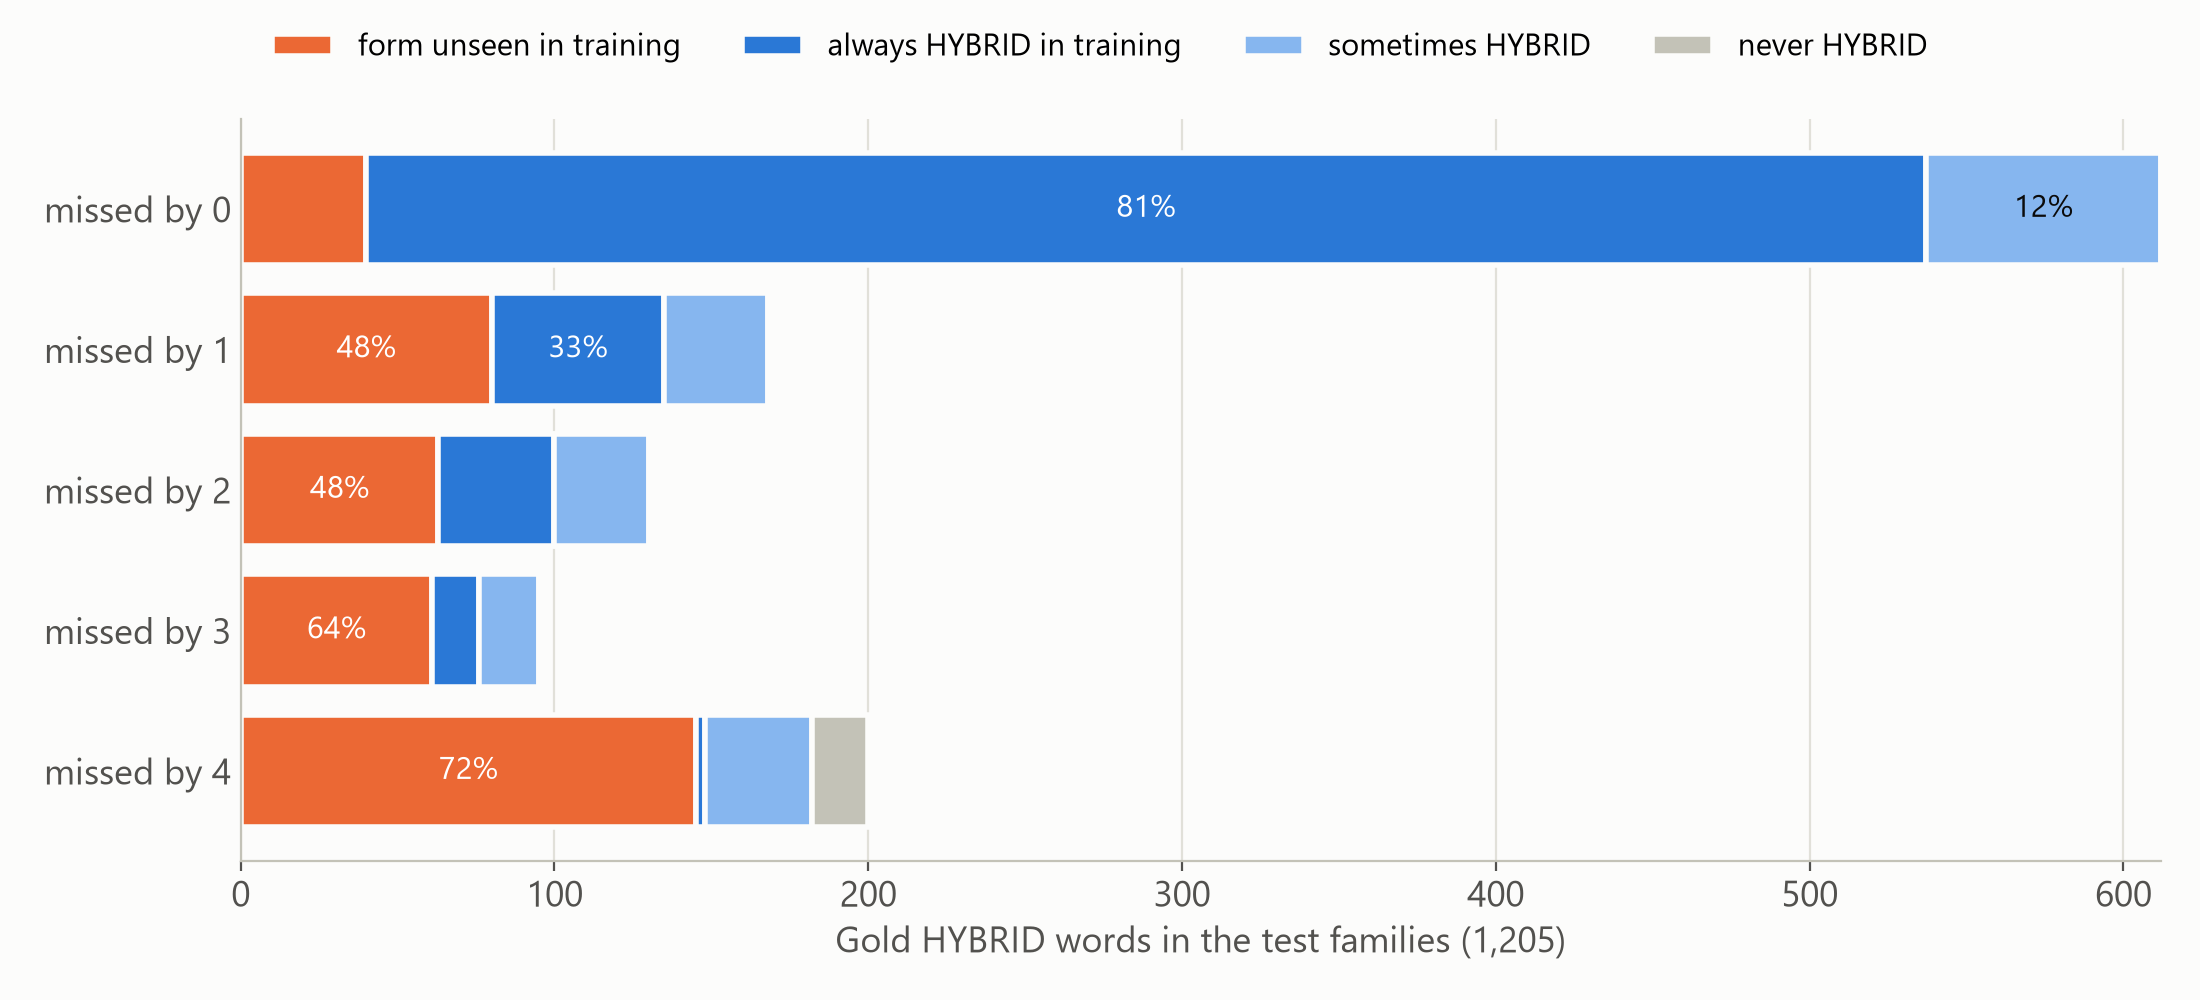
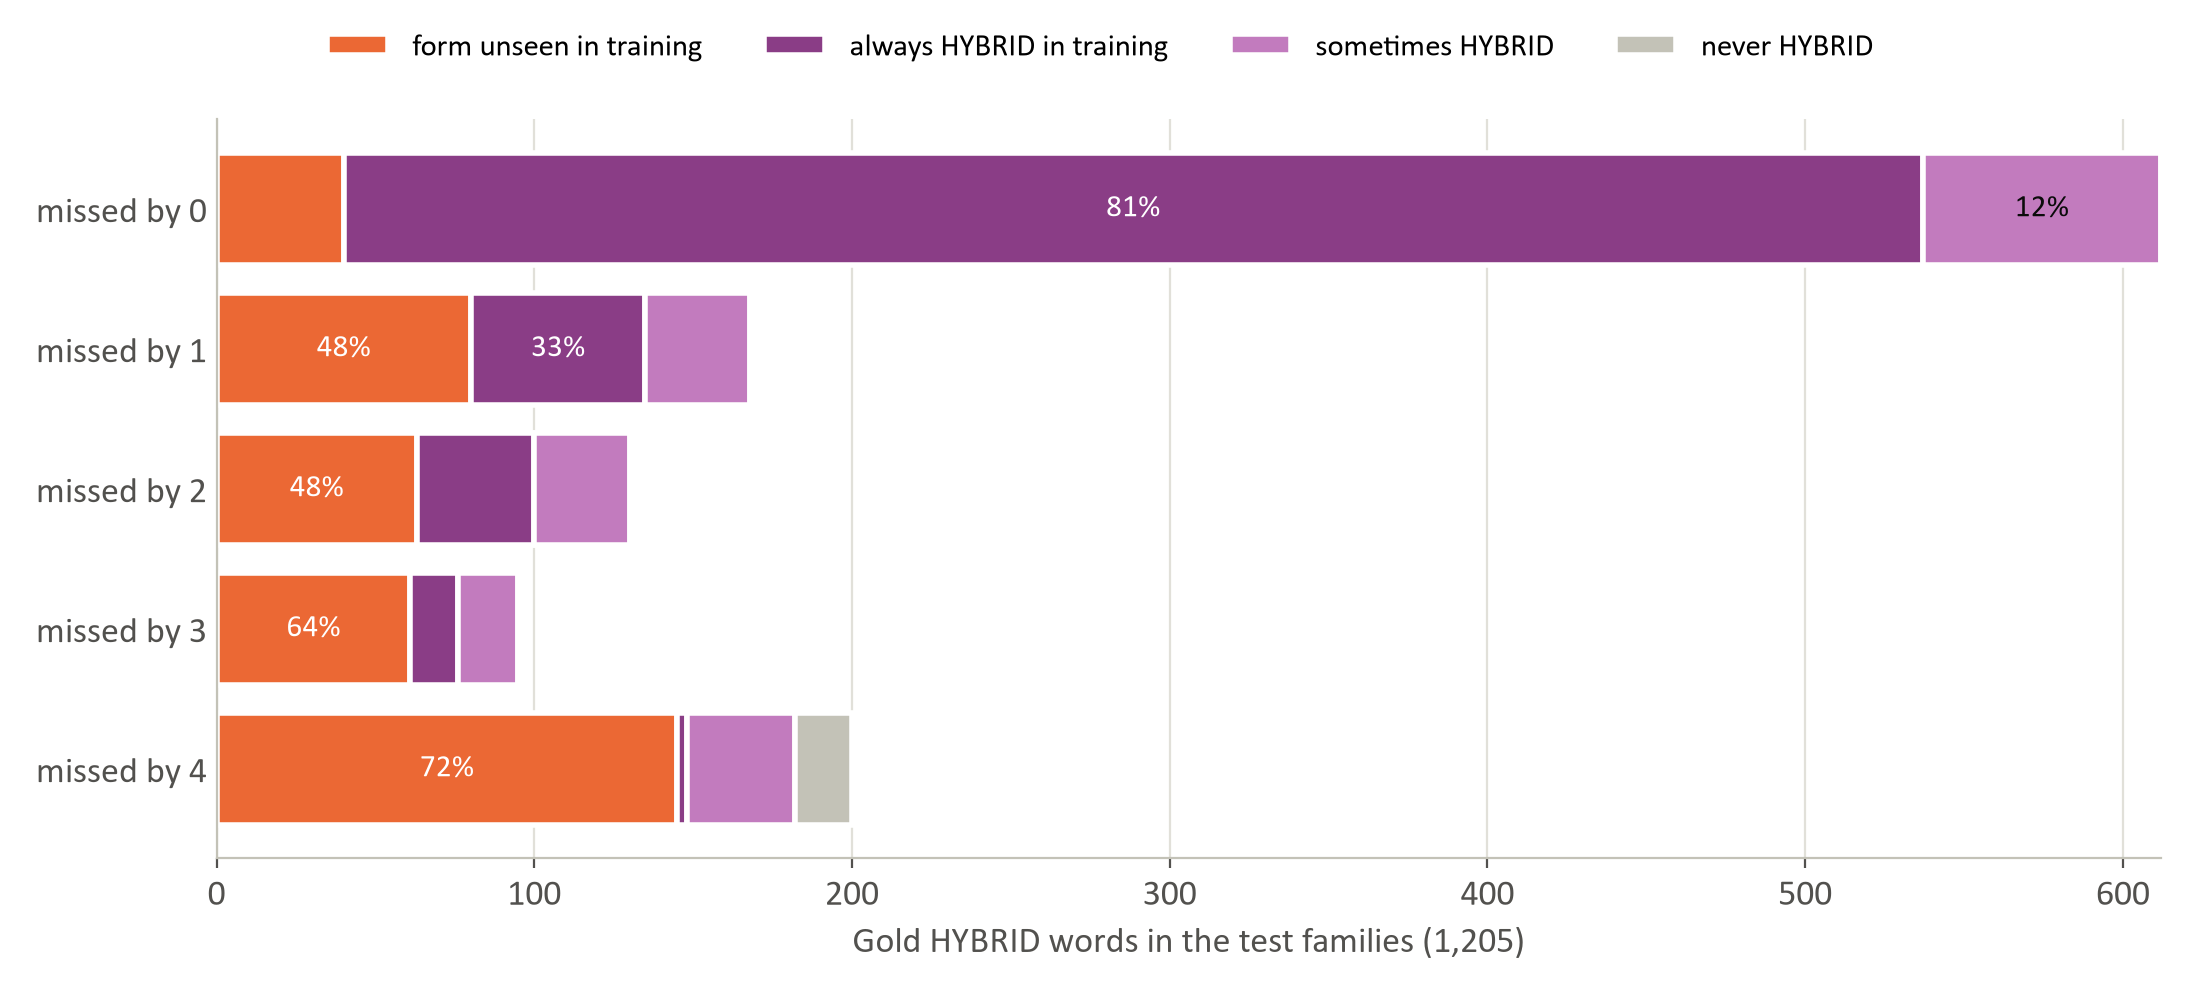
Match the figures my previous presentation's style
Calibri font and a white background, like the slides. The HYBRID
misses figure uses the deck's HYBRID purple for seen forms instead of
blue, which the models use; unseen forms stay orange.

diff --git a/src/analysis/make_figures.py b/src/analysis/make_figures.py
@@ -9,9 +9,9 @@ results/figures/, sized for a 16:9 slide:
     4. hybrid_misses.png     gold HYBRID words by how many models miss them, split by whether
                              the word form was seen in training
 
-Colours: one fixed colour and marker per model in every figure (a validated colour-blind-safe
+Colours: one fixed color and marker per model in every figure (a validated color-blind-safe
 categorical order), so CRF is always blue circles, BiLSTM orange squares, XLM-R aqua diamonds,
-SlavicBERT yellow triangles. Lines are labelled directly at their right end as well.
+SlavicBERT yellow triangles. Lines are labeled directly at their right end as well.
 
 Run from the project root:   python src/analysis/make_figures.py
 """
@@ -41,10 +41,10 @@ STRESS_SETS = ["Russian\n(written)", "Belarusian\n(official)", "Taraškievica\n(
 STRESS_KEYS = ["ru_test", "be_official", "taraskievica", "trasyanka_3"]   # stress_row keys, same order
 
 # Validated categorical order (blue, orange, aqua, yellow), one per model, plus a marker each
-# so identity never depends on colour alone
+# so identity never depends on color alone
 COLORS = {"CRF": "#2a78d6", "BiLSTM": "#eb6834", "XLM-R": "#1baf7a", "SlavicBERT": "#eda100"}
 MARKERS = {"CRF": "o", "BiLSTM": "s", "XLM-R": "D", "SlavicBERT": "^"}
-SURFACE, INK, INK_2, MUTED, GRID, AXIS = "#fcfcfb", "#0b0b0b", "#52514e", "#898781", "#e1e0d9", "#c3c2b7"
+SURFACE, INK, INK_2, MUTED, GRID, AXIS = "#ffffff", "#0b0b0b", "#52514e", "#898781", "#e1e0d9", "#c3c2b7"
 
 
 def learning_curve(prefix, metric):
@@ -98,8 +98,9 @@ def style():
     """Quiet chart chrome: light surface, hairline y grid, no top/right frame, system sans."""
     plt.rcParams.update({
         "figure.facecolor": SURFACE, "axes.facecolor": SURFACE, "savefig.facecolor": SURFACE,
-        "font.family": "sans-serif", "font.sans-serif": ["Segoe UI", "DejaVu Sans", "Arial"],
-        "font.size": 13, "axes.titlesize": 15, "axes.titleweight": "semibold", "axes.titlecolor": INK,
+        # Calibri: the body font of the presentation slides
+        "font.family": "sans-serif", "font.sans-serif": ["Calibri", "Segoe UI", "DejaVu Sans", "Arial"],
+        "font.size": 13, "axes.titlesize": 15, "axes.titleweight": "bold", "axes.titlecolor": INK,
         "axes.labelcolor": INK_2, "xtick.color": INK_2, "ytick.color": INK_2,
         "axes.edgecolor": AXIS, "axes.spines.top": False, "axes.spines.right": False,
         "axes.grid": True, "axes.grid.axis": "y", "grid.color": GRID, "grid.linewidth": 0.8,
@@ -149,7 +150,7 @@ def main_results(path):
     for i, (model, prefix) in enumerate(MODELS.items()):
         values = [load_results(run_name(prefix, s, 1.0))["trasyanka_test"]["macro_f1"] for s, _ in settings]
         xs = [k + (i - 1.5) * width for k in range(len(settings))]
-        # edgecolor = surface: a 2px gap between neighbouring bars
+        # edgecolor = surface: a 2px gap between neighboring bars
         ax.bar(xs, values, width, color=COLORS[model], edgecolor=SURFACE, linewidth=2, label=model)
     # Label only the best bar of each setting
     for k, (setting, _) in enumerate(settings):
@@ -157,7 +158,7 @@ def main_results(path):
         best = max(scores, key=scores.get)
         i = list(MODELS).index(best)
         ax.annotate(f"{scores[best]:.3f}", (k + (i - 1.5) * width, scores[best]), xytext=(0, 4),
-                    textcoords="offset points", ha="center", color=INK, fontsize=12, fontweight="semibold")
+                    textcoords="offset points", ha="center", color=INK, fontsize=12, fontweight="bold")
     ax.set_xticks(range(len(settings)), [label for _, label in settings])
     ax.set_ylim(0, 1)
     ax.set_ylabel("Macro-F1 (BE, RU, SHARED, HYBRID)")
@@ -216,11 +217,13 @@ def stress_figure(path):
 def hybrid_misses_figure(path):
     with open(RESULTS_DIR / "hybrid_errors.json", encoding="utf-8") as f:
         by_count = json.load(f)["train_status_by_missed_count"]
-    # Unseen forms are the story, so they get the strong colour; seen forms are shades of blue / grey
+    # Unseen forms are the story, so they get the strong orange; seen forms are shades of the
+    # presentation's HYBRID purple (not blue, which the models use), never-HYBRID is gray
     statuses = [("unseen", "form unseen in training", "#eb6834"),
-                ("always HYBRID", "always HYBRID in training", "#2a78d6"),
-                ("sometimes HYBRID", "sometimes HYBRID", "#86b6ef"),
+                ("always HYBRID", "always HYBRID in training", "#8a3d86"),
+                ("sometimes HYBRID", "sometimes HYBRID", "#c27bbe"),
                 ("never HYBRID", "never HYBRID", "#c3c2b7")]
+    dark_fills = {"#eb6834", "#8a3d86"}                             # white text on these, ink on the rest
     rows = [str(k) for k in range(5)]
     fig, ax = plt.subplots(figsize=(11, 5.0))
     left = [0] * len(rows)
@@ -231,7 +234,7 @@ def hybrid_misses_figure(path):
             if w >= 45:                                             # label only segments wide enough
                 total = sum(by_count[rows[y]].values())
                 ax.text(x0 + w / 2, y, f"{w / total:.0%}", ha="center", va="center", fontsize=11,
-                        color="#ffffff" if color != "#c3c2b7" and color != "#86b6ef" else INK)
+                        color="#ffffff" if color in dark_fills else INK)
         left = [a + b for a, b in zip(left, widths)]
     ax.set_yticks(range(len(rows)), [f"missed by {k}" for k in rows])
     ax.invert_yaxis()
